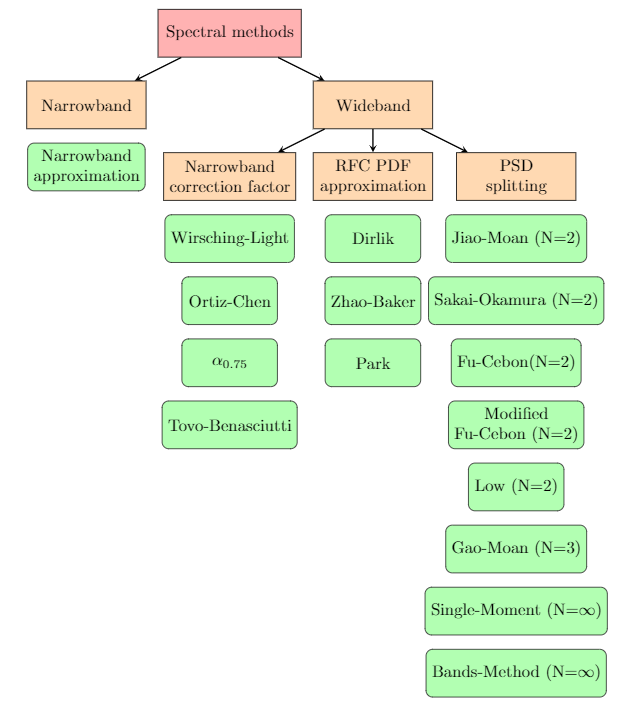
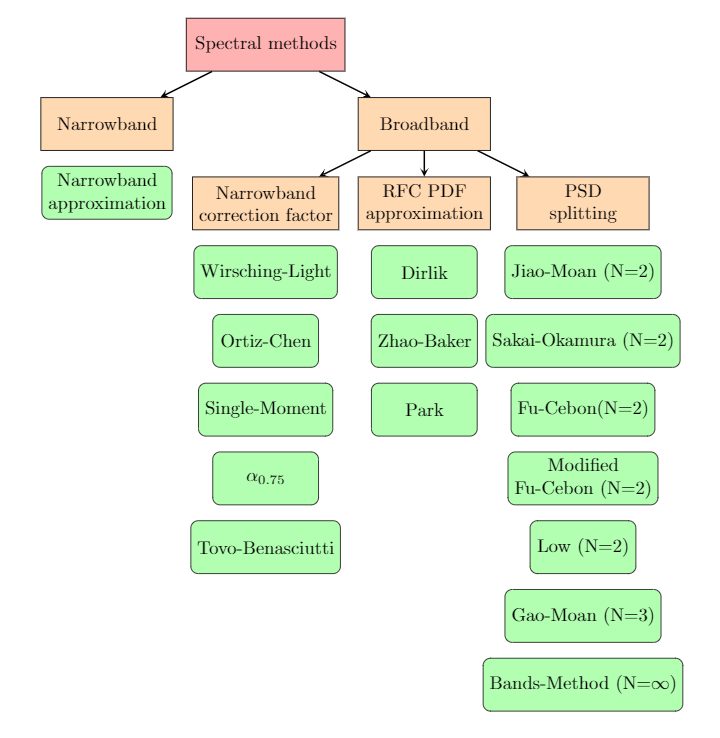
README update

Changed region(s): [[0.0302, 0.0, 0.9666, 0.9874]]

diff --git a/docs/source/conf.py b/docs/source/conf.py
@@ -21,8 +21,8 @@ sys.path.insert(0, os.path.abspath('../../'))
 # -- Project information -----------------------------------------------------
 
 project = 'FLife'
-copyright = '2020, Matjaž Mršnik, Janko Slavič, Aleš Zorman'
-author = 'Matjaž Mršnik, Janko Slavič, Aleš Zorman'
+copyright = '2021, Aleš Zorman, Matjaž Mršnik, Janko Slavič'
+author = 'Aleš Zorman, Matjaž Mršnik, Janko Slavič'
 
 # The short X.Y version
 version = ''

diff --git a/README.rst b/README.rst
@@ -146,11 +146,11 @@ Time history `x` and sampling period `dt` are given as input. `x` must be of typ
 
 Spectral Methods
 -----------------
-Currently 16 spectral methods are supported. Methods for wideband process are organized into 3 subgroups: 
+Currently 16 spectral methods are supported. Methods for broadband process are organized into 3 subgroups: 
 
-    - Narrowband correction factor - methods are based on narrowband approximation, accounting for wideband procces with correction factor.
+    - Narrowband correction factor - methods are based on narrowband approximation, accounting for broadband procces with correction factor.
     - RFC PDF approximation - methods are based on approximation of Rainflow Probability Density Function.
-    - PSD splitting - methods are based on splitting of PSD of wideband process into N narrowband approximations and accounting their interactions.
+    - PSD splitting - methods are based on splitting of PSD of broadband process into N narrowband approximations and accounting their interactions.
 
 |SpectralMethods_img|
 

diff --git a/docs/source/FLife.rst b/docs/source/FLife.rst
@@ -146,11 +146,11 @@ Time history `x` and sampling period `dt` are given as input. `x` must be of typ
 
 Spectral Methods
 -----------------
-Currently 16 spectral methods are supported. Methods for wideband process are organized into 3 subgroups: 
+Currently 16 spectral methods are supported. Methods for broadband process are organized into 3 subgroups: 
 
-    - Narrowband correction factor - methods are based on narrowband approximation, accounting for wideband procces with correction factor.
+    - Narrowband correction factor - methods are based on narrowband approximation, accounting for broadband procces with correction factor.
     - RFC PDF approximation - methods are based on approximation of Rainflow Probability Density Function.
-    - PSD splitting - methods are based on splitting of PSD of wideband process into N narrowband approximations and accounting their interactions.
+    - PSD splitting - methods are based on splitting of PSD of broadband process into N narrowband approximations and accounting their interactions.
 
 |SpectralMethods_img|
 

diff --git a/docs/source/code.rst b/docs/source/code.rst
@@ -19,6 +19,7 @@ Wirsching-Light
 Ortiz-Chen
 **********
 .. autoclass:: FLife.freq_domain.OrtizChen
+    :exclude-members: get_PDF
 
 Alpha075
 ********
